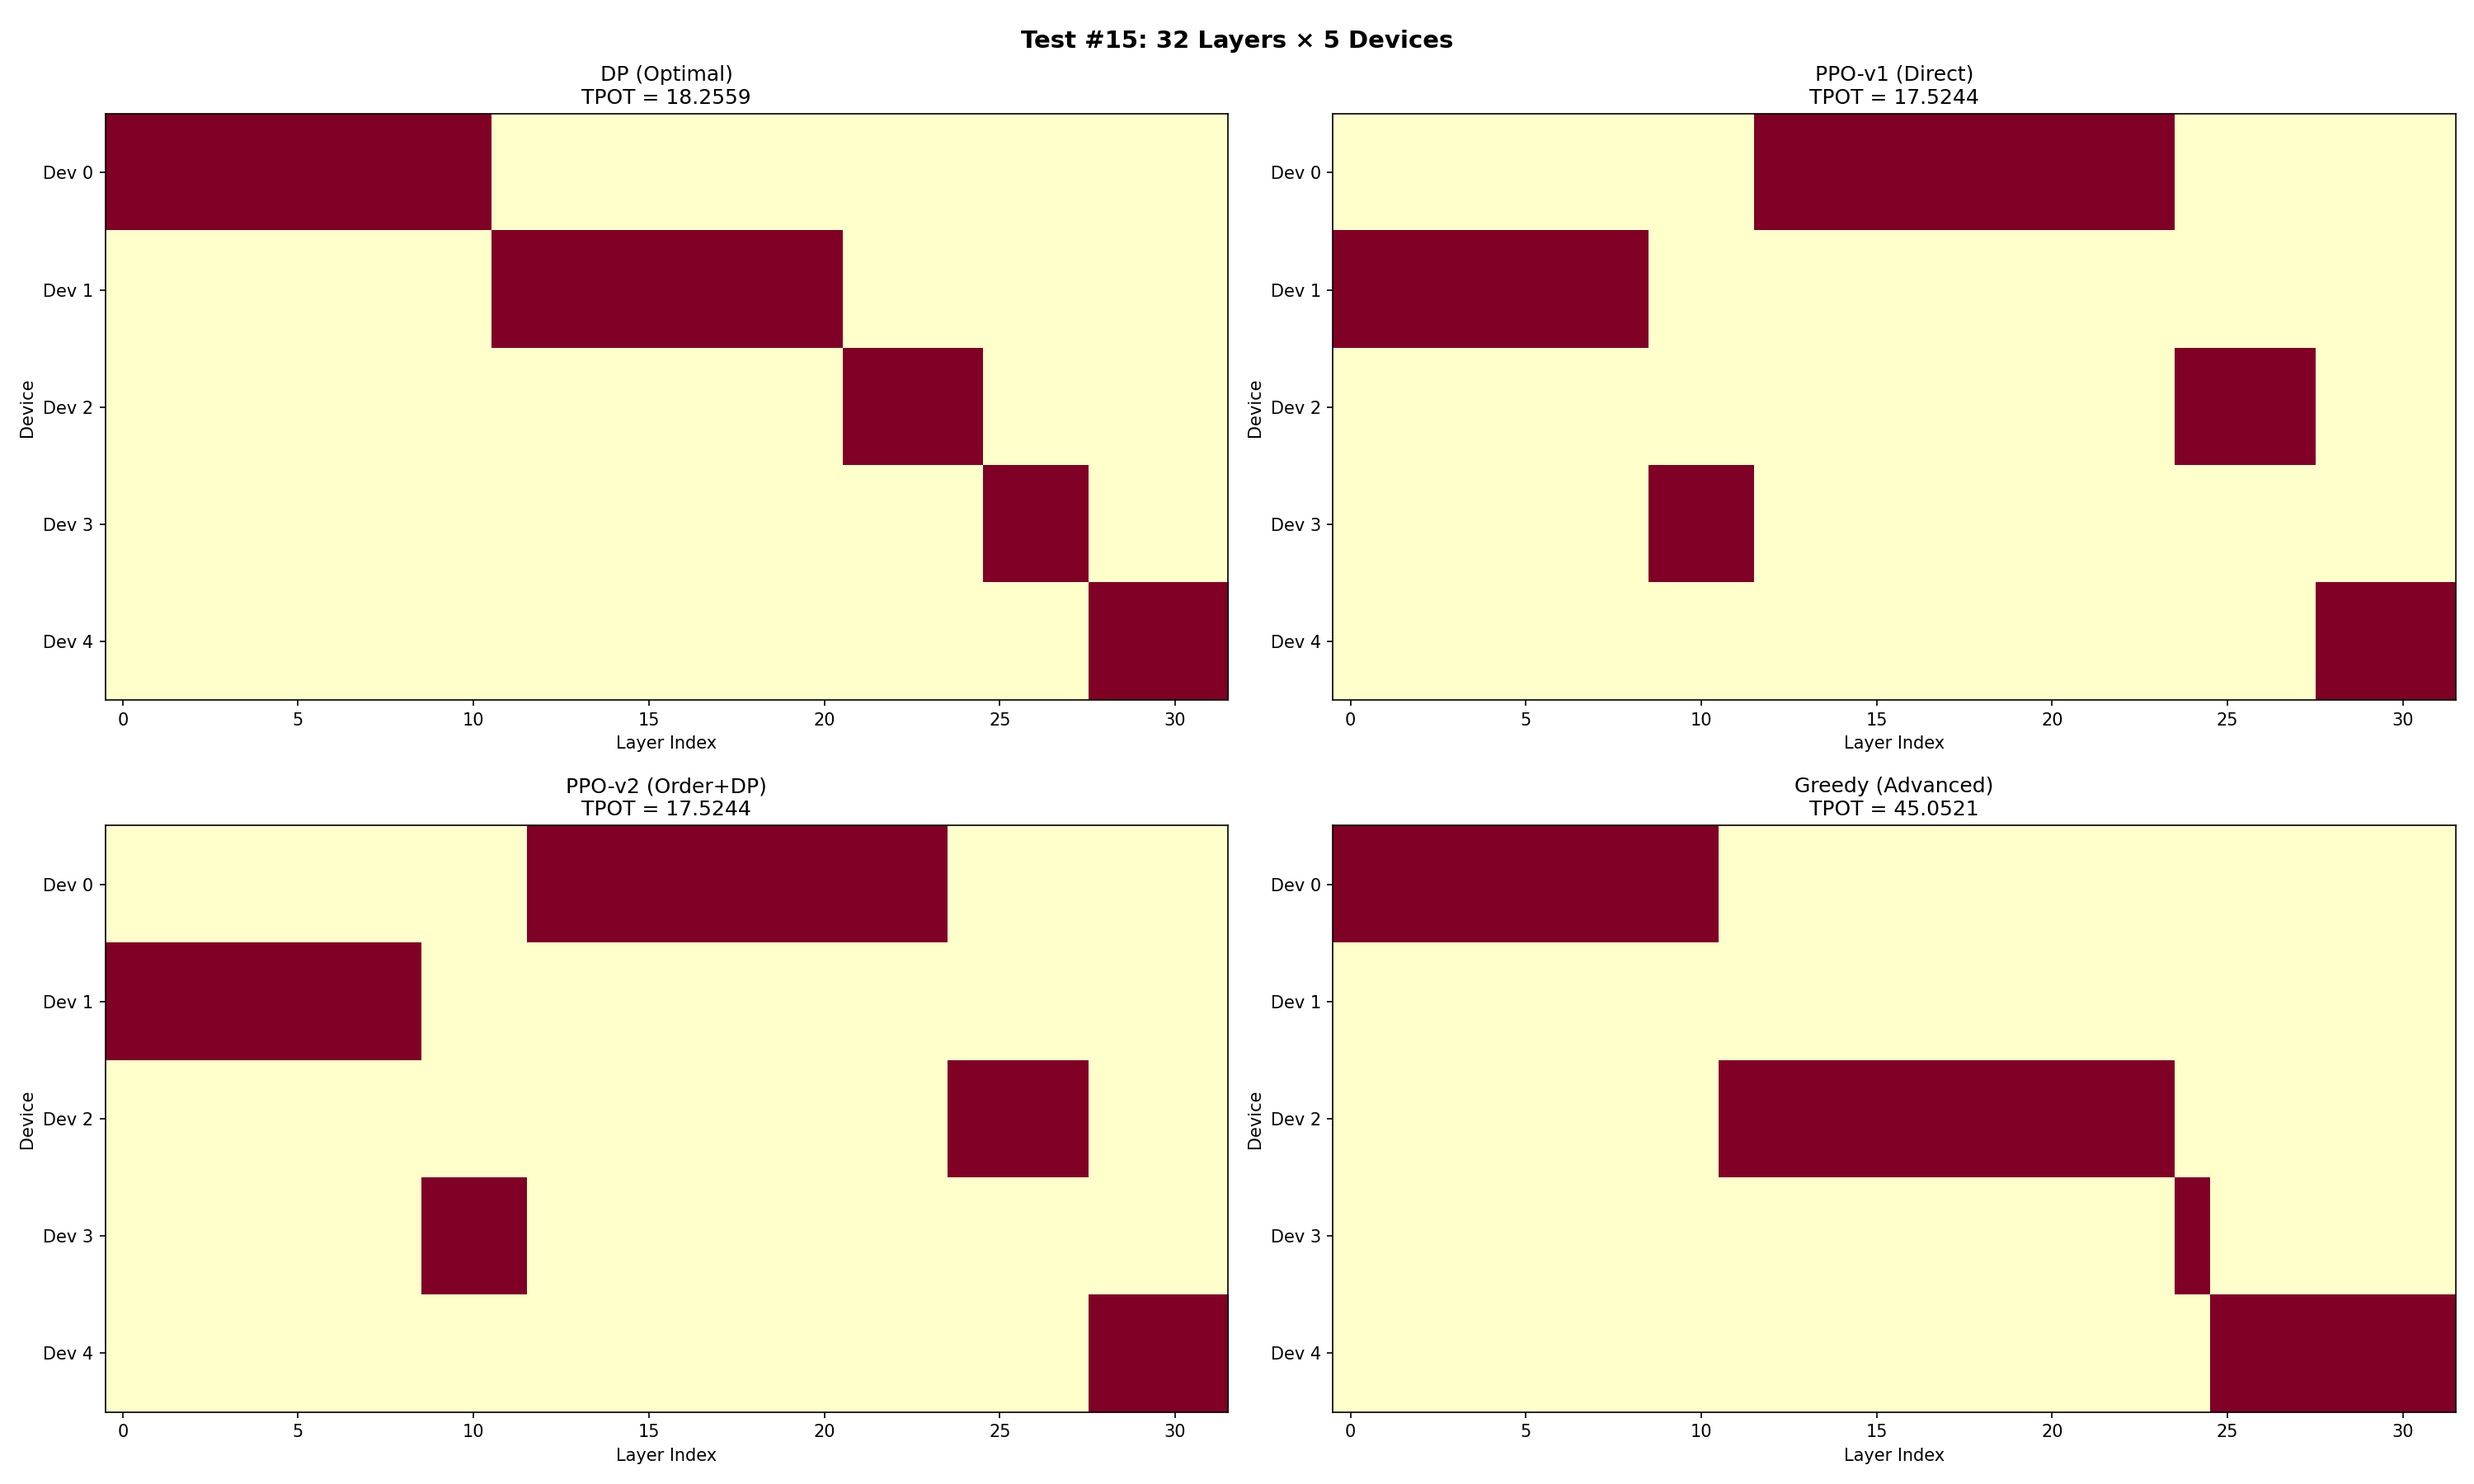
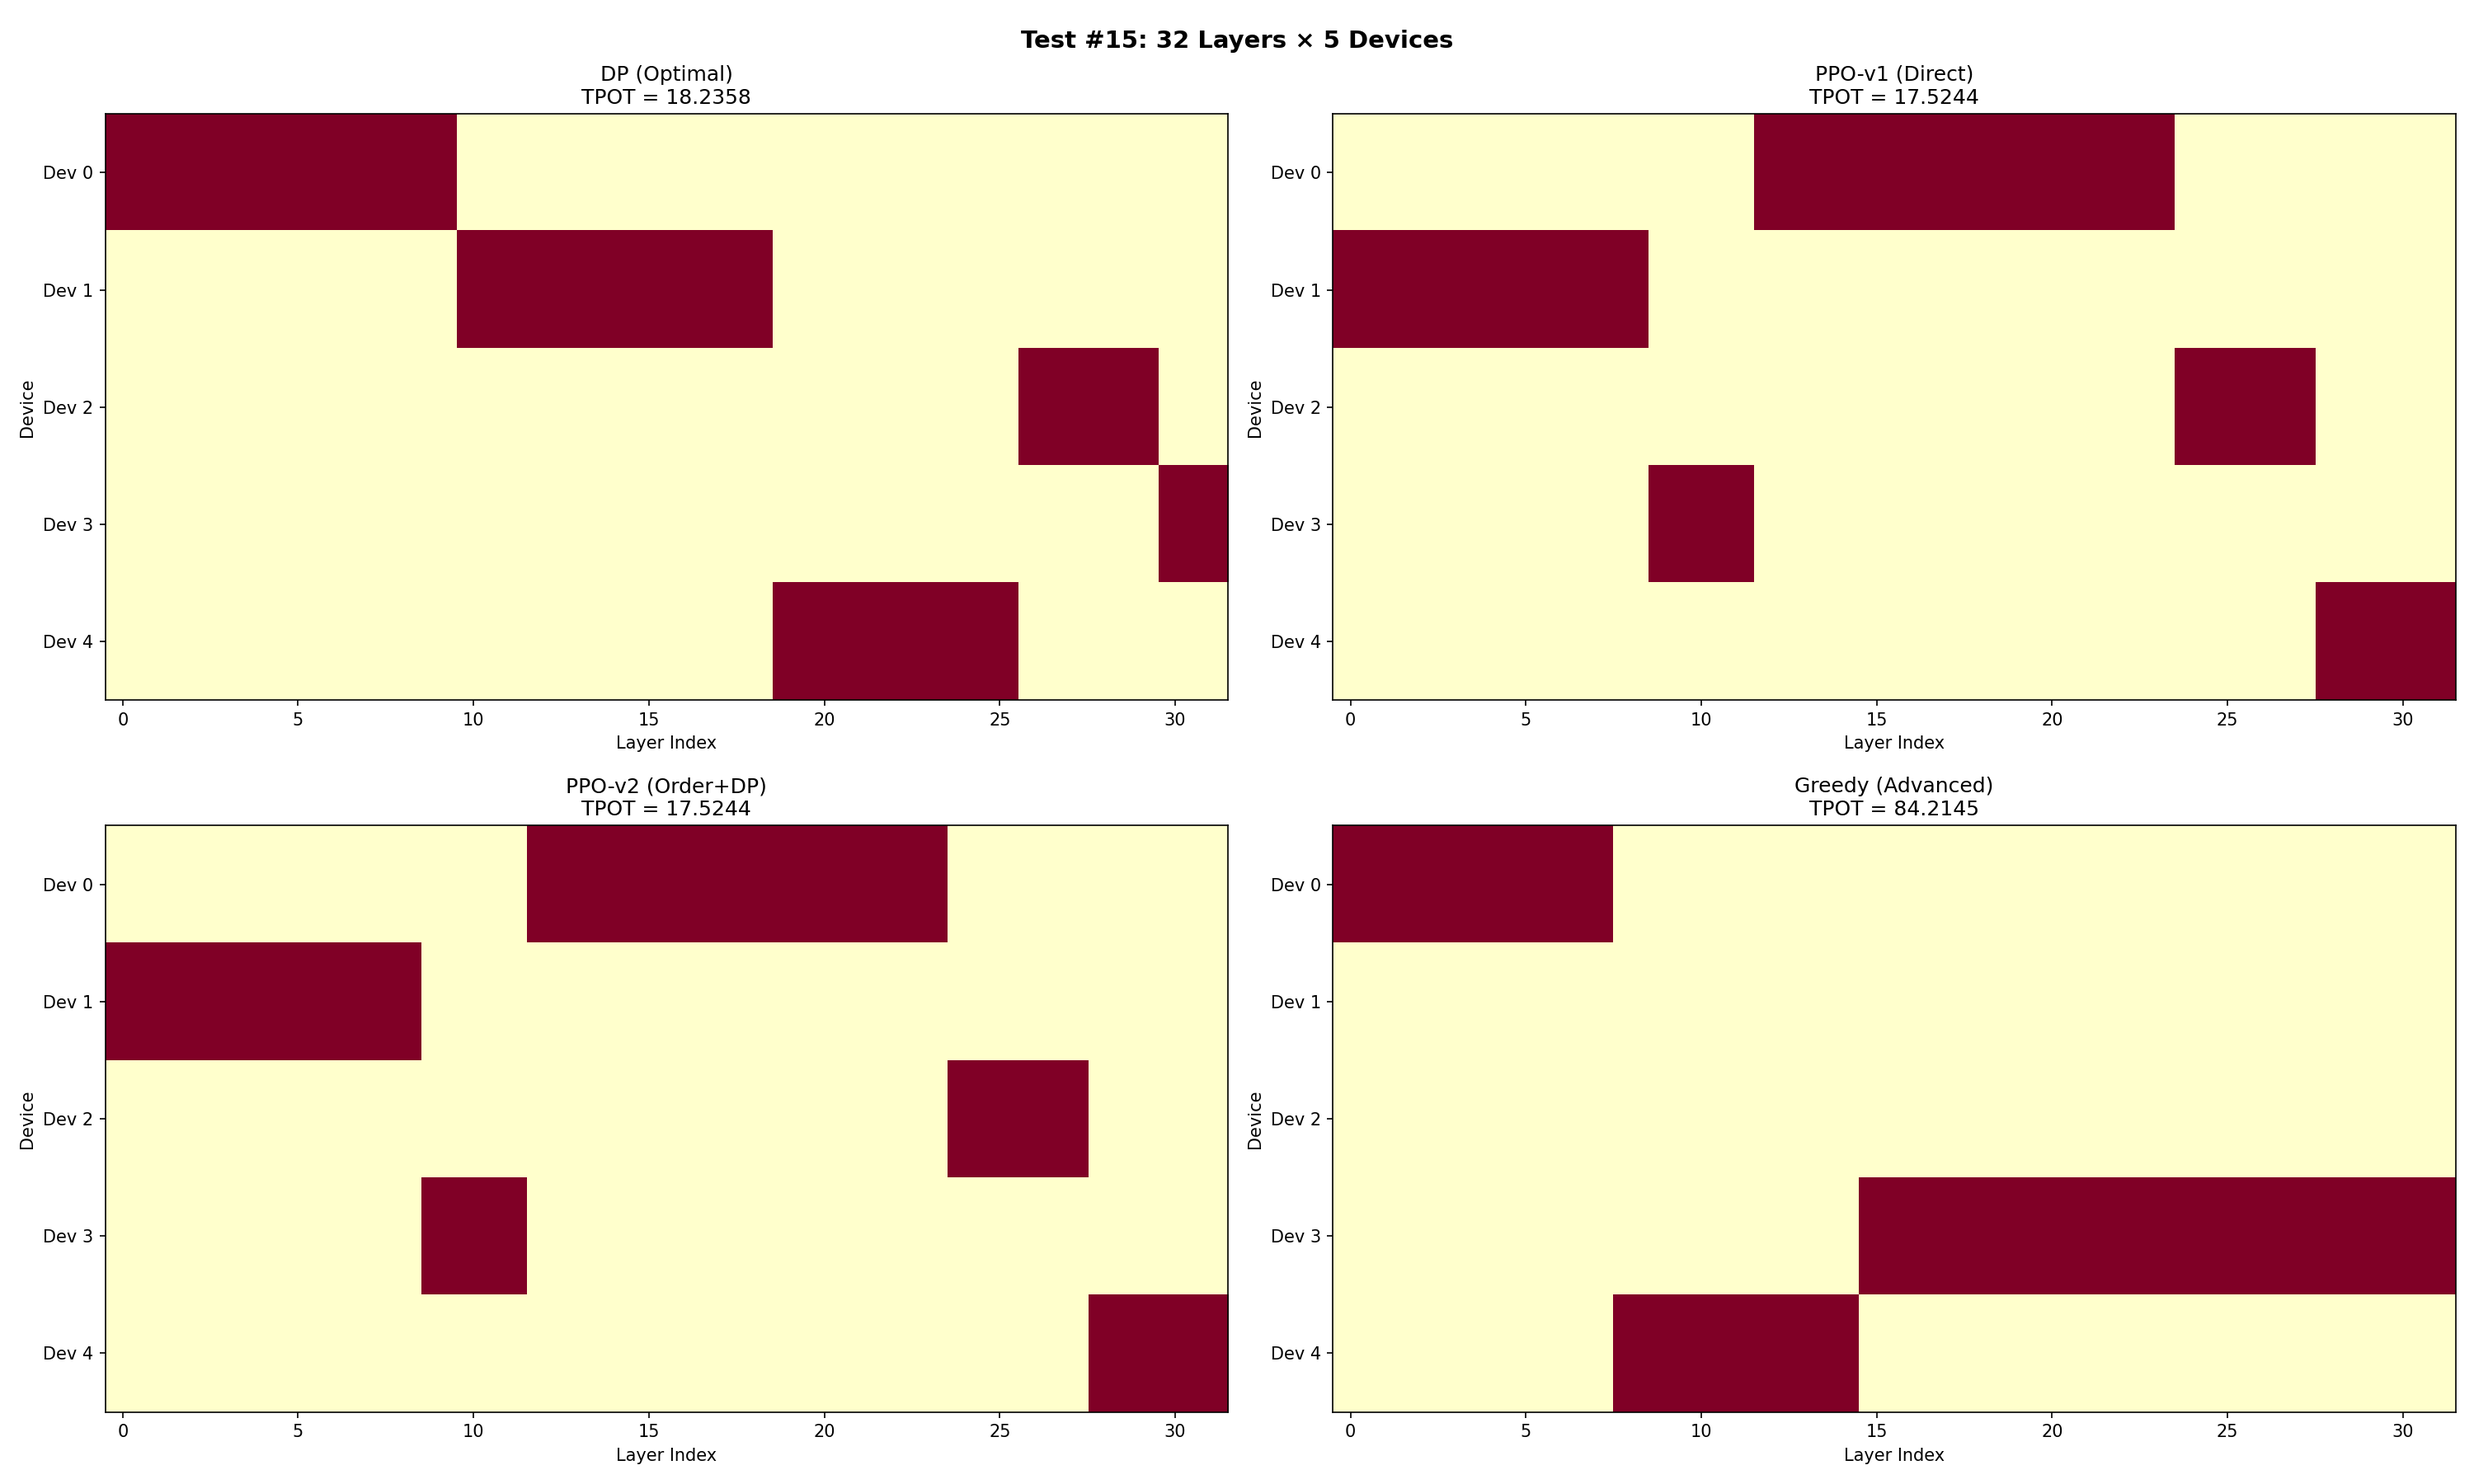
3x training (45000 eps): PPO-v1/v2 100% win vs DP, autoregressive pipeline viz
- config: v1/v2 episodes=45000, max_time=120min
- evaluate: per-algorithm x-axis, autoregressive token generation,
  idle device rows, transfer blocks
- results: updated plots with 45000-episode models

diff --git a/config.py b/config.py
@@ -35,7 +35,7 @@ class TrainConfig:
     v1_entropy_coef: float = 0.01
     v1_value_coef: float = 0.5
     v1_max_grad_norm: float = 0.5
-    v1_num_episodes: int = 15000
+    v1_num_episodes: int = 45000
     v1_steps_per_episode: int = 1  # single step per episode
 
     # PPO-v2: device ordering + DP
@@ -50,14 +50,14 @@ class TrainConfig:
     v2_entropy_coef: float = 0.01
     v2_value_coef: float = 0.5
     v2_max_grad_norm: float = 0.5
-    v2_num_episodes: int = 15000
+    v2_num_episodes: int = 45000
     v2_steps_per_episode: int = 1
 
     # General
     seed: int = 42
     eval_interval: int = 500
     num_eval_configs: int = 100     # Number of random configs per evaluation
-    max_training_minutes: float = 58.0  # Leave margin under 60 min
+    max_training_minutes: float = 120.0  # 2-hour hard limit
     device: str = "cuda"            # "cuda" or "cpu"
 
     @property
